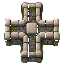
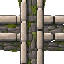
фиксы стен

diff --git a/tools/generate_wall_sprites.go b/tools/generate_wall_sprites.go
@@ -1,7 +1,7 @@
 // generate_wall_sprites turns the approved wall/gate concept sheet into the
-// transparent PNG tiles consumed by the external game art pack. The source
-// sheet is intentionally not embedded: only compact, final game sprites live
-// in the repository.
+// transparent PNG tiles consumed by the external game art pack. Corners are
+// composited from the same straight horizontal/vertical modules: this keeps
+// stone scale, height and edge positions identical at every join.
 package main
 
 import (
@@ -17,6 +17,12 @@ import (
 type frame struct {
 	name string
 	cell image.Rectangle
+}
+
+type wallModule struct {
+	name               string
+	north, east, south bool
+	west               bool
 }
 
 func main() {
@@ -40,39 +46,109 @@ func main() {
 	cell := func(col, row int) image.Rectangle {
 		return image.Rect(col*cellW, row*cellH, (col+1)*cellW, (row+1)*cellH)
 	}
+
+	// A raw concept cell includes a large post on every edge. Keep only its
+	// masonry centre and stretch that texture along the axis: adjacent wall
+	// tiles now meet as one uninterrupted run instead of a chain of fences.
+	horizontal := stretchHorizontal(normalizedFrame(sheet, cell(0, 0)), 15, 49)
+	vertical := stretchVertical(normalizedFrame(sheet, cell(1, 0)), 15, 49)
+	writeFrame(os.Args[2], "buildings/wall/horizontal.png", horizontal)
+	writeFrame(os.Args[2], "buildings/wall/vertical.png", vertical)
+	writeFrame(os.Args[2], "buildings/wall/pillar.png", normalizedFrame(sheet, cell(0, 3)))
+
+	// Every branch/corner is built from the two straight pieces rather than
+	// independently fitted concept cells. Their arms therefore meet in the
+	// exact same centre line as a normal continuation.
+	for _, module := range []wallModule{
+		{"buildings/wall/corner_ne.png", true, true, false, false},
+		{"buildings/wall/corner_nw.png", true, false, false, true},
+		{"buildings/wall/corner_se.png", false, true, true, false},
+		{"buildings/wall/corner_sw.png", false, false, true, true},
+		{"buildings/wall/tee.png", true, true, false, true},
+		{"buildings/wall/cross.png", true, true, true, true},
+	} {
+		writeFrame(os.Args[2], module.name, composeWall(horizontal, vertical, module))
+	}
+
 	frames := []frame{
-		{"buildings/wall/horizontal.png", cell(0, 0)},
-		{"buildings/wall/vertical.png", cell(1, 0)},
-		{"buildings/wall/corner_ne.png", cell(0, 1)},
-		{"buildings/wall/corner_nw.png", cell(1, 1)},
-		{"buildings/wall/corner_se.png", cell(2, 0)},
-		{"buildings/wall/corner_sw.png", cell(3, 0)},
-		{"buildings/wall/tee.png", cell(2, 2)},
-		{"buildings/wall/cross.png", cell(3, 2)},
-		{"buildings/wall/pillar.png", cell(0, 3)},
 		{"buildings/gate/horizontal_closed.png", cell(1, 3)},
 		{"buildings/gate/horizontal_open.png", cell(2, 3)},
 		{"buildings/gate/vertical_closed.png", image.Rect(3*cellW, 3*cellH, 3*cellW+cellW/2, 4*cellH)},
 		{"buildings/gate/vertical_open.png", image.Rect(3*cellW+cellW/2, 3*cellH, 4*cellW, 4*cellH)},
 	}
 	for _, f := range frames {
-		out := normalizedFrame(sheet, f.cell)
-		path := filepath.Join(os.Args[2], filepath.FromSlash(f.name))
-		if err := os.MkdirAll(filepath.Dir(path), 0o755); err != nil {
-			log.Fatal(err)
-		}
-		file, err := os.Create(path)
-		if err != nil {
-			log.Fatal(err)
-		}
-		if err := png.Encode(file, out); err != nil {
-			file.Close()
-			log.Fatal(err)
-		}
-		if err := file.Close(); err != nil {
-			log.Fatal(err)
+		writeFrame(os.Args[2], f.name, normalizedFrame(sheet, f.cell))
+	}
+}
+
+// stretchHorizontal repeats the central masonry column across a full tile,
+// deliberately dropping the standalone end posts from the source concept.
+func stretchHorizontal(src *image.NRGBA, minX, maxX int) *image.NRGBA {
+	out := image.NewNRGBA(image.Rect(0, 0, 64, 64))
+	width := maxX - minX
+	for y := 0; y < 64; y++ {
+		for x := 0; x < 64; x++ {
+			sx := minX + x*width/64
+			out.SetNRGBA(x, y, src.NRGBAAt(sx, y))
 		}
 	}
+	return out
+}
+
+// stretchVertical is stretchHorizontal's 90-degree counterpart.
+func stretchVertical(src *image.NRGBA, minY, maxY int) *image.NRGBA {
+	out := image.NewNRGBA(image.Rect(0, 0, 64, 64))
+	height := maxY - minY
+	for y := 0; y < 64; y++ {
+		sy := minY + y*height/64
+		for x := 0; x < 64; x++ {
+			out.SetNRGBA(x, y, src.NRGBAAt(x, sy))
+		}
+	}
+	return out
+}
+func writeFrame(root, name string, out image.Image) {
+	path := filepath.Join(root, filepath.FromSlash(name))
+	if err := os.MkdirAll(filepath.Dir(path), 0o755); err != nil {
+		log.Fatal(err)
+	}
+	file, err := os.Create(path)
+	if err != nil {
+		log.Fatal(err)
+	}
+	if err := png.Encode(file, out); err != nil {
+		file.Close()
+		log.Fatal(err)
+	}
+	if err := file.Close(); err != nil {
+		log.Fatal(err)
+	}
+}
+
+// composeWall makes a corner, T or cross from 64px halves of the same
+// normalised straight sprites. The four-pixel overlap removes a transparent
+// seam while preserving the visible stone texture on both arms.
+func composeWall(horizontal, vertical *image.NRGBA, module wallModule) *image.NRGBA {
+	out := image.NewNRGBA(image.Rect(0, 0, 64, 64))
+	const middle = 32
+	const overlap = 4
+	if module.west {
+		copyPart(out, horizontal, image.Rect(0, 0, middle+overlap, 64))
+	}
+	if module.east {
+		copyPart(out, horizontal, image.Rect(middle-overlap, 0, 64, 64))
+	}
+	if module.north {
+		copyPart(out, vertical, image.Rect(0, 0, 64, middle+overlap))
+	}
+	if module.south {
+		copyPart(out, vertical, image.Rect(0, middle-overlap, 64, 64))
+	}
+	return out
+}
+
+func copyPart(dst, src *image.NRGBA, area image.Rectangle) {
+	draw.Draw(dst, area, src, area.Min, draw.Over)
 }
 
 func normalizedFrame(sheet image.Image, cell image.Rectangle) *image.NRGBA {
@@ -150,7 +226,7 @@ func opaqueBounds(img *image.NRGBA) (image.Rectangle, bool) {
 			}
 		}
 	}
-	if maxX < minX || maxY < minY {
+	if maxX < minX {
 		return image.Rectangle{}, false
 	}
 	return image.Rect(minX, minY, maxX+1, maxY+1), true

diff --git a/internal/render/buildings.go b/internal/render/buildings.go
@@ -317,7 +317,11 @@ func drawWalls(screen *ebiten.Image, buildings []*building.Building, cam *Camera
 			}
 		}
 		sx, sy := cam.TileToScreen(b.X, b.Y)
-		drawFootprintAtScale(screen, art, sx, sy, 1, tilePixels)
+		// Neighbouring wall art overlaps by two screen pixels on each side.
+		// This is intentionally local to walls: it hides alpha gaps between
+		// modular masonry without changing road, terrain or building bounds.
+		overlap := tilePixels * 0.04
+		drawFootprintAtScale(screen, art, sx-overlap, sy-overlap, 1, tilePixels+overlap*2)
 	}
 }
 
